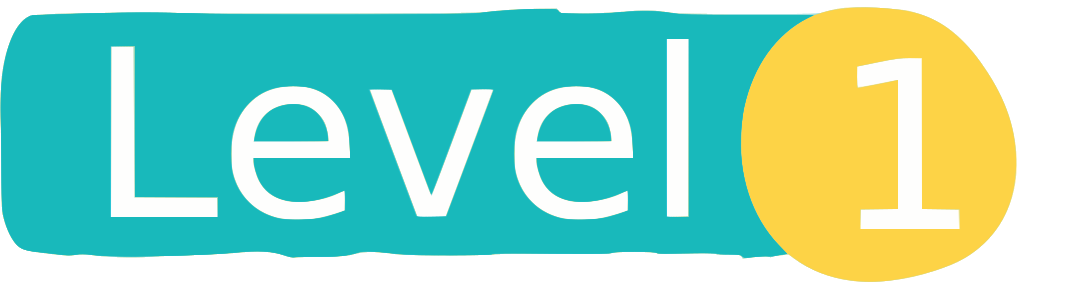
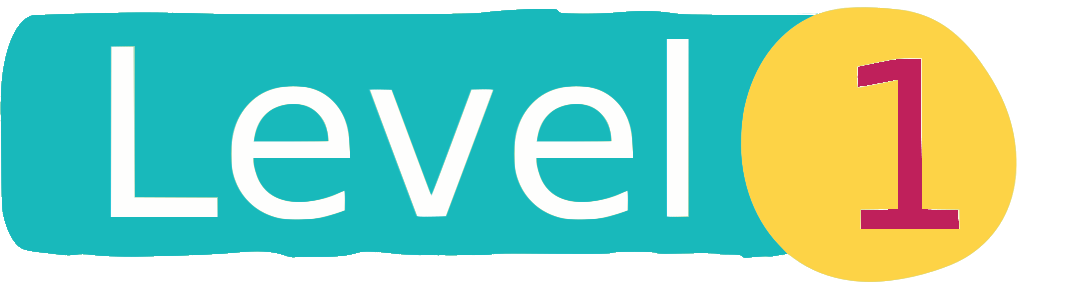
Fix colors acording PDf

Changed region(s): [[0.8049, 0.1972, 0.8977, 0.8169], [0.2167, 0.0282, 0.4024, 0.0563], [0.6501, 0.0282, 0.7739, 0.0563]]

diff --git a/GameIII.html b/GameIII.html
@@ -20,12 +20,12 @@
                 <img src="Img/membrete.png" class="img-fluid float-left" width="50%" height="50%">
             </div>
             <div class="col-6">
-                <img src="Img/level_2.png" class="img-fluid float-right" width="50%" height="50%">
+                <img src="Img/level_3.png" class="img-fluid float-right" width="50%" height="50%">
             </div>
         </div>
         <div class="row">
             <div class="col">
-                <img src="Img/header_instrumentos.png" class="img-fluid float-center" width="75%" height="75%">
+                <img src="Img/header_instrumentos_3.png" class="img-fluid float-center" width="75%" height="75%">
             </div>
         </div>
         <div class="row form-group" id="rowCardsTop">
@@ -86,13 +86,13 @@
                         <!-- Intentos -->
                         <img src="Img/Ci.png" class="img-fluid img-circulo" />
                         <p class="textIntentos" id="score">0</p>
-                        <img src="Img/In.png" class="img-fluid img-txt-intentos" />
+                        <img src="Img/In_3.png" class="img-fluid img-txt-intentos" />
                     </div>
-                    <div class="col-4 form-group col-md-6 col-lg-6">
+                    <div class="col-4 form-group col-md-6 col-lg-6" id="playDiv" onclick="jugar()">
                         <div class="col-4"></div>
                           <div class="row form-group" id="playButton">
                               <div class="col-10 col-md-5 countdownTimer">
-                                  <div class="container" onclick="jugar()">
+                                  <div class="container">
                                       <div class="centered">Play</div>
                                       <img src="Img/Flecha.png" class="img-fluid mb-n5" height="86" width="100">
                                   </div>
@@ -111,7 +111,7 @@
                         <!-- Puntos -->
                         <img src="Img/Ci.png" class="img-fluid img-circulo" />
                         <p class="textPuntos" id="puntos">0</p>
-                        <img src="Img/Pt.png" class="img-fluid img-txt-puntos" />
+                        <img src="Img/Pt_3.png" class="img-fluid img-txt-puntos" />
                     </div>
                 </div>
             </div>

diff --git a/GameII.html b/GameII.html
@@ -25,7 +25,7 @@
         </div>
         <div class="row">
             <div class="col">
-                <img src="Img/header_instrumentos.png" class="img-fluid float-center" width="75%" height="75%">
+                <img src="Img/header_instrumentos_2.png" class="img-fluid float-center" width="75%" height="75%">
             </div>
         </div>
         <div class="row form-group" id="rowCardsTop">
@@ -86,13 +86,13 @@
                         <!-- Intentos -->
                         <img src="Img/Ci.png" class="img-fluid img-circulo" />
                         <p class="textIntentos" id="score">0</p>
-                        <img src="Img/In.png" class="img-fluid img-txt-intentos" />
+                        <img src="Img/In_2.png" class="img-fluid img-txt-intentos" />
                     </div>
-                    <div class="col-4 form-group col-md-6 col-lg-6">
+                    <div class="col-4 form-group col-md-6 col-lg-6" id="playDiv" onclick="jugar()">
                         <div class="col-4"></div>
                           <div class="row form-group" id="playButton">
                               <div class="col-10 col-md-5 countdownTimer">
-                                  <div class="container" onclick="jugar()">
+                                  <div class="container">
                                       <div class="centered">Play</div>
                                       <img src="Img/Flecha.png" class="img-fluid mb-n5" height="86" width="100">
                                   </div>
@@ -111,7 +111,7 @@
                         <!-- Puntos -->
                         <img src="Img/Ci.png" class="img-fluid img-circulo" />
                         <p class="textPuntos" id="puntos">0</p>
-                        <img src="Img/Pt.png" class="img-fluid img-txt-puntos" />
+                        <img src="Img/Pt_2.png" class="img-fluid img-txt-puntos" />
                     </div>
                 </div>
             </div>

diff --git a/GameI.html b/GameI.html
@@ -88,11 +88,11 @@
                         <p class="textIntentos" id="score">0</p>
                         <img src="Img/In.png" class="img-fluid img-txt-intentos" />
                     </div>
-                    <div class="col-4 form-group col-md-6 col-lg-6">
+                    <div class="col-4 form-group col-md-6 col-lg-6" id="playDiv" onclick="jugar()">
                         <div class="col-4"></div>
                           <div class="row form-group" id="playButton">
                               <div class="col-10 col-md-5 countdownTimer">
-                                  <div class="container" onclick="jugar()">
+                                  <div class="container">
                                       <div class="centered">Play</div>
                                       <img src="Img/Flecha.png" class="img-fluid mb-n5" height="86" width="100">
                                   </div>

diff --git a/GameII_1.html b/GameII_1.html
@@ -12,7 +12,7 @@
             <div class="row justify-content-center align-items-center minh-100">
                 <div class="col-lg-12">
                     <div>
-                      <img class="img-fluid rounded mx-auto d-block" src="Img/lvl_dos.png" width="60%"">
+                      <img class="img-fluid rounded mx-auto d-block" src="Img/lvl_three.png" width="60%"">
                     </div>
                 </div>
             </div>

diff --git a/GameI_1.html b/GameI_1.html
@@ -12,7 +12,7 @@
             <div class="row justify-content-center align-items-center minh-100">
                 <div class="col-lg-12">
                     <div>
-                      <img class="img-fluid rounded mx-auto d-block" src="Img/lvl_uno.png" width="60%"">
+                      <img class="img-fluid rounded mx-auto d-block" src="Img/lvl_two.png" width="60%"">
                     </div>
                 </div>
             </div>

diff --git a/Back_End.js b/Back_End.js
@@ -759,6 +759,7 @@ function playSound(src) {
 }
 
 function jugar() {
+    $("#playDiv").prop("onclick", null).off("click");
     var seconds = 60;
     var display = document.querySelector('#time');
     startTimer(seconds, display);

diff --git a/Back_EndI.js b/Back_EndI.js
@@ -759,6 +759,7 @@ function playSound(src) {
 }
 
 function jugar() {
+    $("#playDiv").prop("onclick", null).off("click");
     var seconds = 60;
     var display = document.querySelector('#time');
     startTimer(seconds, display);

diff --git a/Back_EndII.js b/Back_EndII.js
@@ -796,6 +796,7 @@ function playSound() {
 }
 
 function jugar() {
+    $("#playDiv").prop("onclick", null).off("click");
     var seconds = 60;
     var display = document.querySelector('#time');
     startTimer(seconds, display);

diff --git a/Styles/GameStyles.css b/Styles/GameStyles.css
@@ -100,7 +100,7 @@
     border: 6px solid gray;
     background-color: gray;
     color: white;
-    width: 30%;
+    width: 50%;
     letter-spacing: 5px;
 }
 
